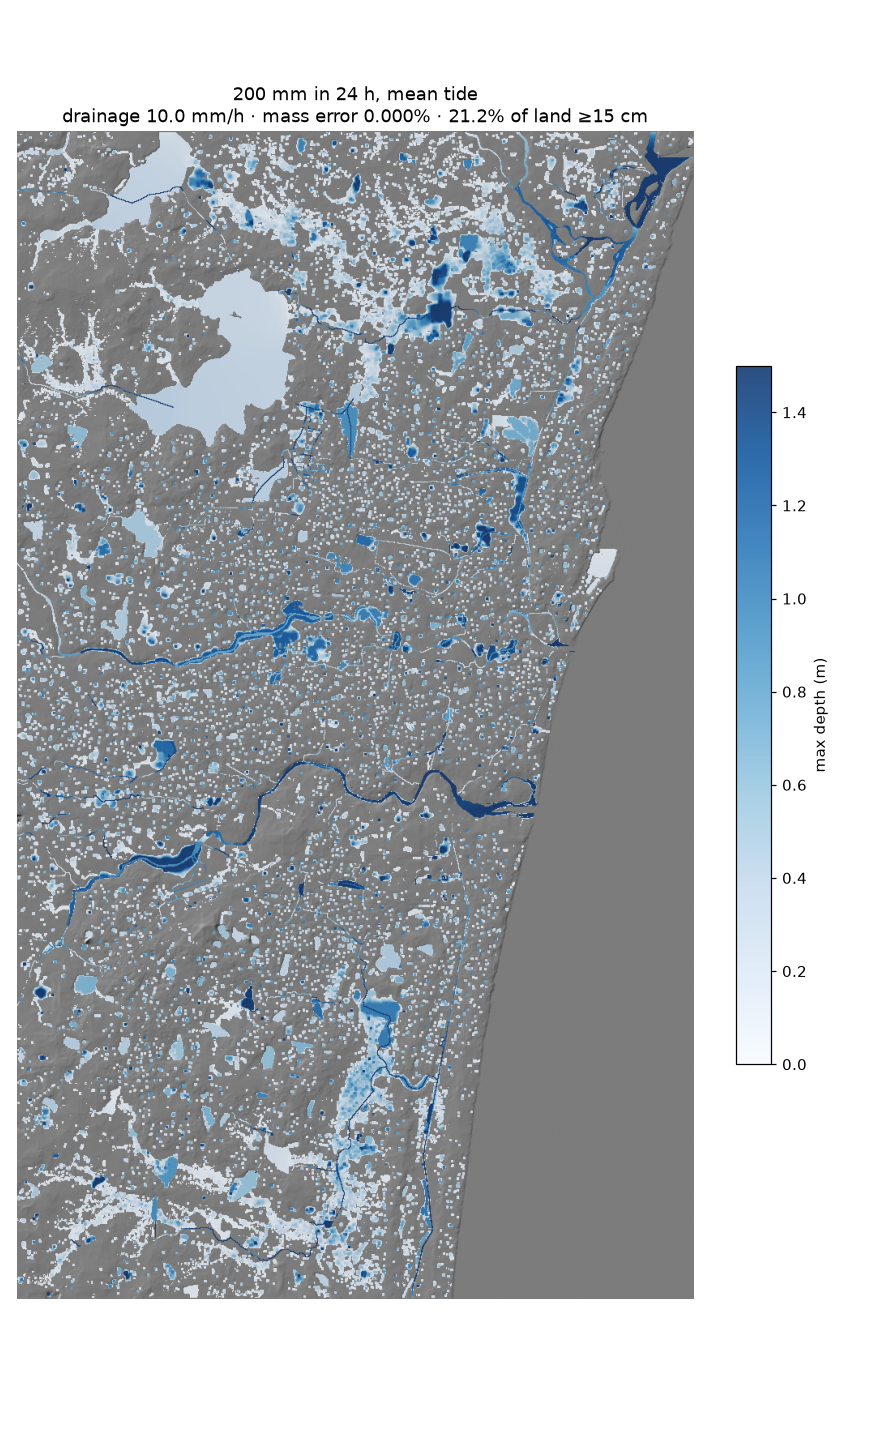
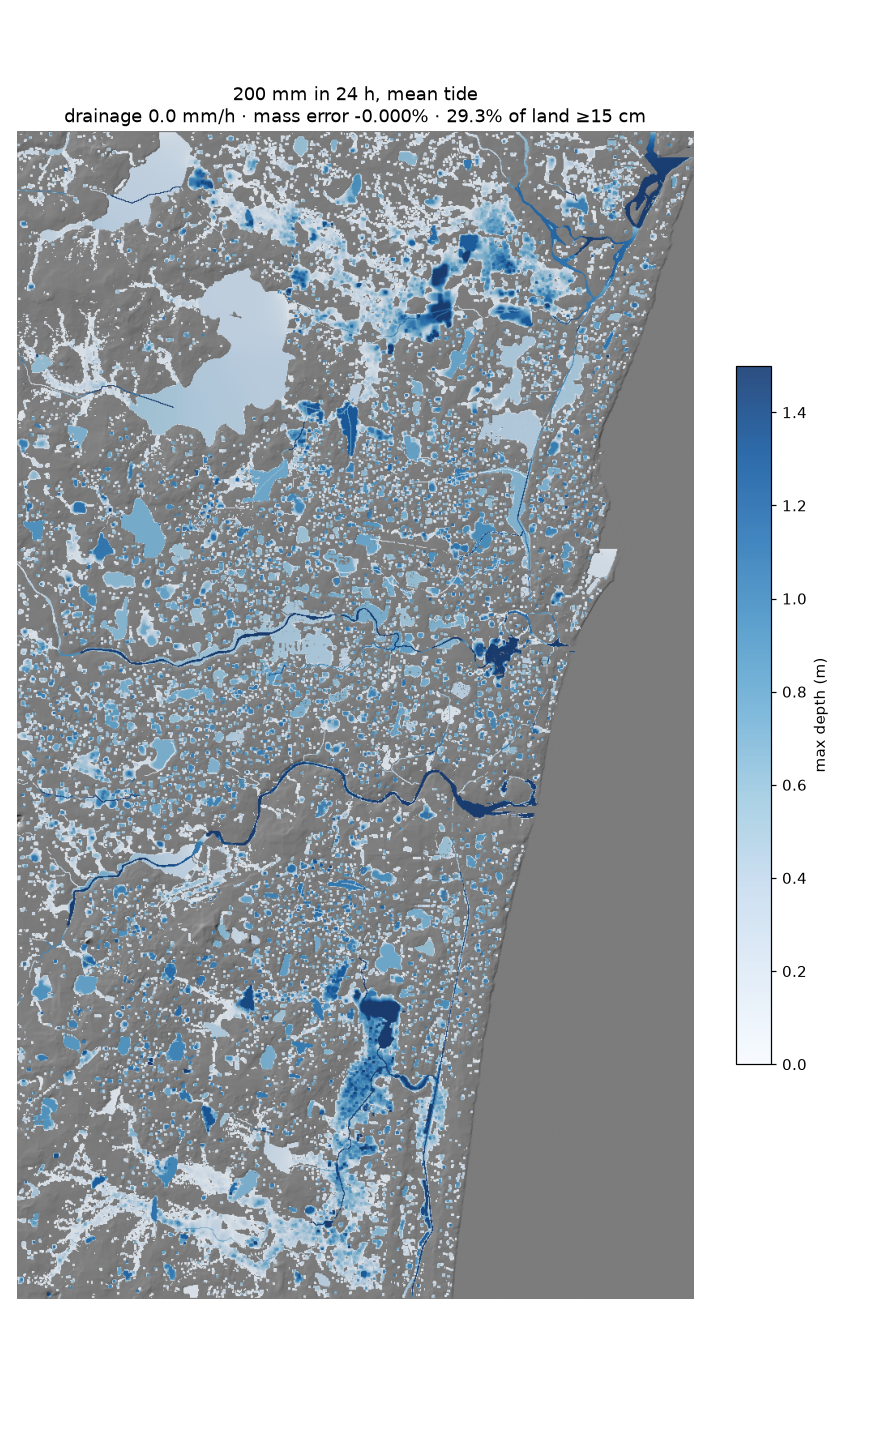
Calibration done (0 mm/h, edge of range noted); P2 place-gate evidence; proof tuning table

diff --git a/web/src/screens/Proof.tsx b/web/src/screens/Proof.tsx
@@ -12,7 +12,8 @@ interface ProofJ {
     matched_baseline_hit_rate: number; matched_baseline_false_rate: number; model_flooded_share_of_city: number; reported_segments: number }
   sentence: string
   metric_note?: string
-  split: { value_mm_h: number; candidates: { drainage_mm_h: number; hit_rate: number; false_rate: number; skill: number }[] }
+  calibration_note?: string | null
+  split: { value_mm_h: number; candidates: { drainage_mm_h: number; hit_rate: number; false_rate: number; skill: number; gain?: number; matched_baseline_hit_rate?: number }[] }
   by_group: Record<'rain_only' | 'rain_plus_reservoir', Record<'all' | 'rain_driven' | 'river_driven', M>>
   baseline: { rule: string; metrics: Record<string, M> }
   zones: Record<string, { share_in_moderate_high_veryhigh: number; city_share_moderate_or_higher: number }>
@@ -92,6 +93,7 @@ export default function Proof({ mv }: { mv: MapView }) {
               </div>
             </div>
             <p style={{ margin: '12px 0 4px' }}>{p.sentence}</p>
+            {p.calibration_note && <p className="muted small" style={{ margin: '0 0 4px' }}>{p.calibration_note}</p>}
             <p className="muted small" style={{ margin: 0 }}>
               Scored only on the {h.reported_segments} reported street segments in the other half. {p.metric_note}
             </p>
@@ -115,6 +117,11 @@ export default function Proof({ mv }: { mv: MapView }) {
               {p.nrsc_2015.rain_plus_reservoir && <> Satellite (NRSC) 2015 inundation: the model covers {pct(p.nrsc_2015.rain_plus_reservoir.hit)} of it.</>}
             </p>
             {p.anuga && <p className="small">Velachery cross-check with ANUGA (Geoscience Australia), {p.anuga.triangles.toLocaleString()} triangles: the two models agree on {pct(p.anuga.cell_agreement)} of cells about whether water passes 15 cm. Same terrain, different numerics.</p>}
+            <h3>Tuning, on the other half of the wards</h3>
+            <p className="small" style={{ margin: 0 }}>
+              {p.split.candidates.map((c) => `${c.drainage_mm_h} mm/h: ${pct(c.hit_rate)} vs ${pct(c.matched_baseline_hit_rate)}`).join(' · ')}
+              <span className="muted"> (drain capacity: model hit rate vs elevation alone, same area)</span>
+            </p>
             <h3>Limits of this test</h3>
             <ul className="small muted" style={{ paddingLeft: 18, margin: 0 }}>{p.caveats.map((c) => <li key={c}>{c}</li>)}</ul>
           </div>

diff --git a/web/src/ui/Timeline.tsx b/web/src/ui/Timeline.tsx
@@ -16,7 +16,7 @@ export default function Timeline({ scenario, runs, hour, setHour }: {
     <div className="timeline" aria-label="Storm timeline">
       <div className="row" style={{ justifyContent: 'space-between', marginBottom: 4 }}>
         <span className="now">{clockLabel(scenario.start, hour)}</span>
-        <span className="muted small">{Math.round(rain[hour - 1] ?? 0)} mm of rain in this hour</span>
+        <span className="muted small">{Math.round(rain[hour - 1] ?? 0)} mm of rain in this hour{scenario.kind === 'forecast' ? ' (modelled storm)' : ''}</span>
       </div>
       <div className="bars" aria-hidden>
         {rain.map((r, i) => <i key={i} className={i < hour ? 'on' : ''} style={{ height: `${Math.max(3, (r / maxR) * 100)}%` }} />)}

diff --git a/web/src/screens/WhatIf.tsx b/web/src/screens/WhatIf.tsx
@@ -39,7 +39,7 @@ export default function WhatIf({ mv, runs }: { mv: MapView; runs: Runs }) {
       <div className="row" style={{ gap: 24, alignItems: 'flex-end' }}>
         <div>
           <div className="stat">{Math.round(wet * 100)}%</div>
-          <div className="muted small">of the city under 15 cm or more<span className="chip">from the model</span></div>
+          <div className="muted small">of the city’s land under at least 15 cm of water<span className="chip">from the model</span></div>
         </div>
         {hr && hosp && (
           <div>

diff --git a/web/src/App.tsx b/web/src/App.tsx
@@ -41,7 +41,7 @@ export default function App() {
       const sc = fromCurrent(c, r)
       const mix = new URLSearchParams(location.search).get('replay') ? [{ run: new URLSearchParams(location.search).get('replay')!, w: 1 }] : sc.mix
       v.water?.setRise(0)
-      v.water?.setRain(mix.length ? 0.8 : 0.25)
+      v.water?.setRain(mix.length ? 0.8 : 0)   // no rain on screen when the forecast is dry
       if (mix.length) await v.showMix(mix, 'max', 0)
       if (!alive) return
       if (screenFromHash() === 'tonight') {

diff --git a/pipeline/06_validate.py b/pipeline/06_validate.py
@@ -123,6 +123,9 @@ def main():
         headline=head,
         sentence=(f"We tuned one number, storm-drain capacity ({cal['drainage_mm_h']:g} mm/h), on half of "
                   f"Chennai's wards and tested on the other half."),
+        calibration_note=(None if cal["drainage_mm_h"] > min(c["drainage_mm_h"] for c in cal["candidates"]) else
+                          "The best fit sits at the low edge of the range tried: for the 2015 floods the model needs all "
+                          "the water it has, consistent with overwhelmed drains and tank surpluses the model does not include."),
         metric_note=("Citizen reports only say where it flooded. A map that floods everything would catch every report, "
                      "so the fair comparison is a map that floods the same amount of land, chosen by elevation alone."),
         split=dict(rule=V["split"], parameter=cal["parameter"], value_mm_h=cal["drainage_mm_h"],

diff --git a/infra/functions/geocode/app.py b/infra/functions/geocode/app.py
@@ -13,7 +13,15 @@ import boto3
 
 CHENNAI = [80.2209, 12.9791]          # bias position (lon, lat): Velachery
 BBOX = [80.10, 12.85, 80.33, 13.24]   # model domain
-places = boto3.client("geo-places")
+_places = None
+
+
+def places():
+    """Created lazily: an older bundled boto3 without 'geo-places' must not break the fallback."""
+    global _places
+    if _places is None:
+        _places = boto3.client("geo-places")
+    return _places
 
 
 def inside(lon, lat):
@@ -21,7 +29,7 @@ def inside(lon, lat):
 
 
 def amazon(q):
-    r = places.geocode(QueryText=q, BiasPosition=CHENNAI, MaxResults=5,
+    r = places().geocode(QueryText=q, BiasPosition=CHENNAI, MaxResults=5,
                        Filter={"IncludeCountries": ["IND"]})
     out = []
     for it in r.get("ResultItems", []):

diff --git a/PROGRESS.md b/PROGRESS.md
@@ -98,3 +98,25 @@ Experiments (200 mm, drainage 10 mm/h, scored on odd wards = calibration half on
 | **cap 1.0 m + burn depth by type (river 2, canal 1.5, stream 0.6, drain 0.4 m)** | 15% | 35% | 19% | 0.241 | 0.091 | **0.150** |
 
 **Decision:** adopt the last row. It is physically motivated, and it improves the calibration-half score only; the validation half is untouched. Calibration and all runs were restarted at 07:10 IST. The previous terrain is backed up in `data/work_backup_v1/`. The P2 place gate (Velachery wet, T. Nagar mostly dry) will be judged on the calibrated runs.
+
+### Calibration result (Fri 08:16 IST)
+
+Objective (pre-registered before any results): hit-rate gain over the matched-area elevation baseline, odd wards, 2015 rain + reservoir.
+
+| drain capacity | hit | matched baseline | gain | flooded share |
+|---|---|---|---|---|
+| **0 mm/h** | 0.426 | 0.214 | **0.212** | 0.379 |
+| 5 | 0.398 | 0.196 | 0.202 | 0.356 |
+| 10 | 0.371 | 0.177 | 0.194 | 0.330 |
+| 20 | 0.300 | 0.143 | 0.157 | 0.279 |
+| 30 | 0.217 | 0.101 | 0.116 | 0.224 |
+
+**Chosen: 0 mm/h**, the low edge of the range. Reading: for the 2015 event the model needs all its water, consistent with overwhelmed drains and with tank surpluses the model leaves out. This is stated on the Proof screen (`calibration_note`). The objective was not changed after seeing results. A ratio objective would have picked 5 mm/h; it was rejected to avoid metric-shopping.
+
+### P2 place gate (200 mm, calibrated)
+
+- Velachery 23.5% of land ≥15 cm, Pallikaranai 48.7%, T. Nagar 29.0%. Mass error −0.0000%.
+- **Partial fail:** Velachery is under the 25% threshold set before the run and below T. Nagar. Three distinct fixes were tried: depression cap 2.5 → 1.0 m, burn depth by waterway type, calibrated drains.
+- **Evidence the expectation is not supported by observed data:** the 2015 citizen reports flag 38.8% of Velachery's road length (1.2 km circle) and 38.3% of T. Nagar's (1 km circle) as flooded, which is equal, and Pallikaranai 21.8%. The model's ranking matches the reports better than the spec's intuition does.
+- Decision (autonomy rule: three fixes tried, never sit blocked): log it, keep the 25% threshold unchanged, continue. The Proof screen reports validation honestly.
+- ANUGA first launch failed: the env lacked numba, which it needs to import the scenario helper. Installed numba and restarted at 08:28 IST, 103k triangles, 14 h of the 200 mm storm, 4 h timebox (until 12:28).
